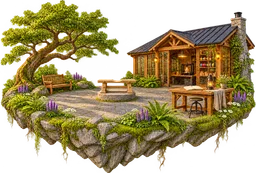
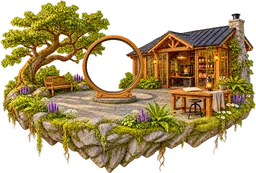
Heute-Insel mit gemaltem Holzring: App legt nur Sonnenweg, Skala, Sonne/Mond und Uhr in den gemalten Ring
Neues Inselbild des Nutzers (Großer Holzring auf schwebender Insel), gezeichneter Ringkörper samt Tiefenschichten entfernt, Position am gemalten Ring vermessen, ASSET_VERSION 20261108a, Doku angepasst.

Claude-Session: https://claude.ai/code/session_01Bea5Y1uKo4kG3DT62iBBFM

diff --git a/src/ui/Tagesportal.tsx b/src/ui/Tagesportal.tsx
@@ -17,10 +17,10 @@ function arc(from: number, to: number, r: number) {
 const STAR_HOURS = [0.6, 1.8, 3.1, 4.4, 20.4, 21.7, 22.9];
 
 /**
- * The Tagesportal: a turned oak ring with a brass inlay, resting in the notch of the wooden stand painted on the Heute island. The inside stays
- * transparent (the real landscape shows through). Natural materials only: oak with real grain (turbulence filter), a soft sheen,
- * brass edge; inside the inlay the sun's path from sunrise (left) to sunset (right) glows like amber, the passed part bright,
- * the night side dark slate with small stars; a warm sun or a pale moon marks now. Centre: the clock, and (not in compact mode) the next change of light.
+ * The Tagesportal: the wooden ring is painted in the Heute island image (wood band, slate channel inside, on a stand). The app only lays the
+ * living part into it: the sun's path in the slate channel from sunrise (left) to sunset (right) glowing like amber, the passed part bright,
+ * the night side dark with small stars; a warm sun or a pale moon marks now; 24 notches and hour numbers engraved on the wood; the clock and
+ * (not in compact mode) the next change of light in the centre. Position and size follow the painted ring (global.css .portal).
  */
 export function Tagesportal({ compact = false, turn = 0, lean = 0 }: { compact?: boolean; turn?: number; lean?: number }) {
   const now = useNow(1000);
@@ -29,7 +29,7 @@ export function Tagesportal({ compact = false, turn = 0, lean = 0 }: { compact?:
   const sr = today ? hourOf(today.sunrise) : 7; const ss = today ? hourOf(today.sunset) : 17;
   const h = now.getHours() + now.getMinutes() / 60 + now.getSeconds() / 3600;
   const isDay = h >= sr && h <= ss;
-  const R = 81; const [bx, by] = pt(h, R);
+  const R = 87; const [bx, by] = pt(h, R);
   const tomorrow = weather?.data.daily?.[1];
   const at = (iso: string | undefined, fallbackHour: number) => fmtTime(iso ? new Date(iso) : new Date(new Date(now).setHours(fallbackHour, 0, 0, 0)));
   const line = h < sr ? [`Sonnenaufgang ${at(today?.sunrise, 7)}`, `noch ${fmtDuration(Math.round((sr - h) * 60))}`]
@@ -40,40 +40,8 @@ export function Tagesportal({ compact = false, turn = 0, lean = 0 }: { compact?:
     <div className={`portal${compact ? ' portal--compact' : ''}`} data-testid="portal" data-kind={isDay ? 'sonne' : 'mond'} data-day={isDay ? 'true' : 'false'}>
       <div className="portal__pool" />
       <div className="portal__tilt" style={{ transform: `rotate(${lean}deg) rotateY(${turn}deg)` }}>
-        {/* the body of the ring: slices stacked behind the front face give it real thickness once the ring is turned in perspective */}
-        {Array.from({ length: 7 }, (_, i) => (
-          <svg key={i} className="portal__depth" viewBox="0 0 200 200" width="100%" height="100%" aria-hidden style={{ transform: `translateZ(${-(i + 1) * 1.4}px)` }}>
-            <circle cx="100" cy="100" r="93" fill="none" stroke={i < 6 ? `rgba(${70 - i * 6},${40 - i * 4},${14 - i},1)` : 'rgba(30,16,4,1)'} strokeWidth="11" />
-            <circle cx="100" cy="100" r="98.3" fill="none" stroke="rgba(0,0,0,.35)" strokeWidth=".8" />
-          </svg>
-        ))}
         <svg viewBox="0 0 200 200" width="100%" height="100%" role="img" aria-label={`Tagesportal, jetzt ${fmtTime(now)}`} style={{ overflow: 'visible', position: 'relative' }}>
           <defs>
-            <linearGradient id="portalOak" x1="0" y1="0" x2="1" y2="1"><stop offset="0" stopColor="#e2a054" /><stop offset=".3" stopColor="#c47d31" /><stop offset=".6" stopColor="#8f5219" /><stop offset=".82" stopColor="#b9742c" /><stop offset="1" stopColor="#dd9a4d" /></linearGradient>
-            <linearGradient id="portalOakHi" x1="0" y1="0" x2="1" y2="1"><stop offset="0" stopColor="rgba(255,226,170,.8)" /><stop offset=".35" stopColor="rgba(255,226,170,.16)" /><stop offset="1" stopColor="rgba(255,255,255,0)" /></linearGradient>
-            <linearGradient id="portalFar" x1="0" y1="0" x2="1" y2="0"><stop offset="0" stopColor="rgba(255,240,215,.1)" /><stop offset=".45" stopColor="rgba(0,0,0,0)" /><stop offset="1" stopColor="rgba(0,0,0,.38)" /></linearGradient>
-            <linearGradient id="portalBrass" x1="0" y1="0" x2="1" y2="1"><stop offset="0" stopColor="#f3dca0" /><stop offset=".4" stopColor="#b98a3e" /><stop offset=".7" stopColor="#7d561c" /><stop offset="1" stopColor="#dcb86a" /></linearGradient>
-            {/* wood grain: coarse long fibres, fine short fibres and darker growth lines, each clipped to the ring */}
-            <filter id="portalGrain" x="-10%" y="-10%" width="120%" height="120%">
-              <feTurbulence type="fractalNoise" baseFrequency="0.01 0.22" numOctaves="4" seed="7" result="n" />
-              <feColorMatrix in="n" type="matrix" values="0 0 0 0 0.36  0 0 0 0 0.17  0 0 0 0 0.05  0 0 0 1.6 -0.35" result="g" />
-              <feComposite in="g" in2="SourceAlpha" operator="in" />
-            </filter>
-            <filter id="portalGrainMid" x="-10%" y="-10%" width="120%" height="120%">
-              <feTurbulence type="fractalNoise" baseFrequency="0.02 0.5" numOctaves="3" seed="19" result="n" />
-              <feColorMatrix in="n" type="matrix" values="0 0 0 0 0.6  0 0 0 0 0.32  0 0 0 0 0.1  0 0 0 1.8 -0.55" result="g" />
-              <feComposite in="g" in2="SourceAlpha" operator="in" />
-            </filter>
-            <filter id="portalGrainFine" x="-10%" y="-10%" width="120%" height="120%">
-              <feTurbulence type="fractalNoise" baseFrequency="0.035 0.9" numOctaves="2" seed="3" result="n" />
-              <feColorMatrix in="n" type="matrix" values="0 0 0 0 1.0  0 0 0 0 0.8  0 0 0 0 0.45  0 0 0 1.4 -0.45" result="g" />
-              <feComposite in="g" in2="SourceAlpha" operator="in" />
-            </filter>
-            <filter id="portalGrainDark" x="-10%" y="-10%" width="120%" height="120%">
-              <feTurbulence type="turbulence" baseFrequency="0.006 0.5" numOctaves="2" seed="11" result="n" />
-              <feColorMatrix in="n" type="matrix" values="0 0 0 0 0.3  0 0 0 0 0.12  0 0 0 0 0.03  0 0 0 2.2 -0.9" result="g" />
-              <feComposite in="g" in2="SourceAlpha" operator="in" />
-            </filter>
             <linearGradient id="portalDay" gradientUnits="userSpaceOnUse" x1={f(pt(sr, R)[0])} y1={f(pt(sr, R)[1])} x2={f(pt(ss, R)[0])} y2={f(pt(ss, R)[1])}><stop offset="0" stopColor="#ff9c7a" /><stop offset=".3" stopColor="#ffe08a" /><stop offset=".55" stopColor="#fff6cc" /><stop offset=".8" stopColor="#ffc872" /><stop offset="1" stopColor="#ff8a4a" /></linearGradient>
             <linearGradient id="portalNight" x1="0" y1="0" x2="1" y2="1"><stop offset="0" stopColor="#1b2a6b" /><stop offset="1" stopColor="#3b5bc4" /></linearGradient>
             <radialGradient id="portalText" cx="50%" cy="50%" r="50%"><stop offset="0" stopColor="rgba(8,14,30,.55)" /><stop offset=".7" stopColor="rgba(8,14,30,.22)" /><stop offset="1" stopColor="rgba(8,14,30,0)" /></radialGradient>
@@ -82,44 +50,22 @@ export function Tagesportal({ compact = false, turn = 0, lean = 0 }: { compact?:
             <filter id="portalGlow" x="-40%" y="-40%" width="180%" height="180%"><feGaussianBlur stdDeviation="2" result="b" /><feMerge><feMergeNode in="b" /><feMergeNode in="SourceGraphic" /></feMerge></filter>
           </defs>
 
-          {/* a faint warm halo: the light of the inlay spilling out, not a neon glow */}
-          <circle cx="100" cy="100" r="92" fill="none" stroke={glow} strokeWidth="12" filter="url(#portalBloom)" opacity=".5" />
-          <circle cx="100" cy="100" r="93" fill="none" stroke="rgba(0,0,0,.38)" strokeWidth="12" filter="url(#portalSoft)" />
-
-          {/* the oak ring: turned wood with grain, a soft sheen on the upper left, bevel edges, brass on the inner lip */}
-          <circle cx="100" cy="100" r="93" fill="none" stroke="url(#portalOak)" strokeWidth="11" />
-          <circle cx="100" cy="100" r="93" fill="none" stroke="#000" strokeWidth="11" filter="url(#portalGrain)" opacity=".38" />
-          {/* growth rings of the turned wood: thin concentric lines, slightly uneven */}
-          {[90.2, 91.6, 93.1, 94.7, 96.1].map((r, i) => <circle key={r} cx="100" cy="100" r={r} fill="none" stroke="rgba(70,38,10,.22)" strokeWidth={i % 2 ? .35 : .5} strokeDasharray={i % 2 ? '14 6 22 4' : '30 5 12 8'} strokeDashoffset={i * 9} />)}
-          {/* rounded tube: dark outer edge, bright ridge just inside it, shadow trough towards the inner lip, far side a little darker */}
-          <circle cx="100" cy="100" r="97.9" fill="none" stroke="rgba(28,14,3,.6)" strokeWidth="1" />
-          <circle cx="100" cy="100" r="95.6" fill="none" stroke="rgba(255,236,200,.42)" strokeWidth="1.8" filter="url(#portalSoft)" />
-          <circle cx="100" cy="100" r="90.3" fill="none" stroke="rgba(22,10,2,.5)" strokeWidth="2.2" filter="url(#portalSoft)" />
-          <circle cx="100" cy="100" r="93" fill="none" stroke="url(#portalFar)" strokeWidth="11" />
-          <circle cx="100" cy="100" r="93" fill="none" stroke="url(#portalOakHi)" strokeWidth="9" opacity=".75" />
-          {/* lacquer: a soft specular band on the upper left like the varnished beams of the hut */}
-          <path d={arc(8.2, 12.4, 94.8)} fill="none" stroke="rgba(255,240,205,.55)" strokeWidth="2.6" strokeLinecap="round" filter="url(#portalSoft)" />
-          <circle cx="100" cy="100" r="98.2" fill="none" stroke="rgba(255,235,200,.55)" strokeWidth=".9" />
-          <circle cx="100" cy="100" r="98.8" fill="none" stroke="rgba(40,22,6,.5)" strokeWidth=".6" />
-          <circle cx="100" cy="100" r="87.2" fill="none" stroke="url(#portalBrass)" strokeWidth="2.2" />
-          <circle cx="100" cy="100" r="88.4" fill="none" stroke="rgba(255,245,215,.6)" strokeWidth=".5" />
-          <circle cx="100" cy="100" r="86" fill="none" stroke="rgba(40,22,6,.6)" strokeWidth=".6" />
-
-          {/* hour scale: 24 notches in the brass lip (longer every 6 h), hour numbers every 3 h engraved into the wood */}
-          {Array.from({ length: 24 }, (_, i) => { const major = i % 6 === 0; const mid = i % 3 === 0; const [x1, y1] = pt(i, 88.4); const [x2, y2] = pt(i, 88.4 - (major ? 3.6 : mid ? 2.6 : 1.6)); return <g key={i}><line x1={f(x1 + .35)} y1={f(y1 + .35)} x2={f(x2 + .35)} y2={f(y2 + .35)} stroke="rgba(255,245,215,.55)" strokeWidth={major ? 1 : .6} /><line x1={f(x1)} y1={f(y1)} x2={f(x2)} y2={f(y2)} stroke="rgba(45,25,6,.9)" strokeWidth={major ? 1 : .6} /></g>; })}
-          {[0, 3, 6, 9, 12, 15, 18, 21].map((t) => { const [x, y] = pt(t, 93.2); const major = t % 6 === 0; return <g key={t} fontFamily="Georgia, 'Times New Roman', serif" fontSize={major ? 10.6 : 8.6} fontWeight="700" textAnchor="middle"><text x={f(x)} y={f(y + 3.7)} fill="#2a1605" stroke="rgba(255,243,215,.85)" strokeWidth="1.1" strokeLinejoin="round" style={{ paintOrder: 'stroke' }}>{t}</text></g>; })}
-
-          {/* inside stays transparent; only a soft dark centre keeps the clock readable */}
+          {/* the ring itself is painted in the island image (wood band with a slate channel inside); the app only lays light and scale into it */}
+          <circle cx="100" cy="100" r={R} fill="none" stroke={glow} strokeWidth="9" filter="url(#portalBloom)" opacity=".35" />
           <circle cx="100" cy="100" r="46" fill="url(#portalText)" />
 
-          {/* the sun's path in the inlay: a dark slate channel, the daylight glowing like amber, the passed part bright; stars on the night side */}
-          <circle cx="100" cy="100" r={R} fill="none" stroke="rgba(14,18,30,.55)" strokeWidth="6" />
-          <circle cx="100" cy="100" r={R} fill="none" stroke="#2b3447" strokeWidth="3.8" opacity=".85" />
-          {STAR_HOURS.filter((s) => s < sr || s > ss).map((s) => { const [x, y] = pt(s, R); return <circle key={s} className="portal__star" cx={f(x)} cy={f(y)} r=".75" fill="#e8eefb" />; })}
-          <path d={arc(sr, ss, R)} fill="none" stroke="url(#portalDay)" strokeWidth="3.8" strokeLinecap="round" opacity=".4" />
-          {h > sr ? <path d={arc(sr, Math.min(h, ss), R)} fill="none" stroke="#ffd48a" strokeWidth="8" strokeLinecap="round" opacity=".4" filter="url(#portalBloom)" /> : null}
-          {h > sr ? <path d={arc(sr, Math.min(h, ss), R)} fill="none" stroke="url(#portalDay)" strokeWidth="3.8" strokeLinecap="round" filter="url(#portalGlow)" /> : null}
-          {[sr, ss].map((t, i) => { const [x1, y1] = pt(t, R - 4.5); const [x2, y2] = pt(t, R + 4.5); return <line key={i} x1={f(x1)} y1={f(y1)} x2={f(x2)} y2={f(y2)} stroke="rgba(255,240,205,.9)" strokeWidth="1.2" />; })}
+          {/* hour scale on the painted wood band: 24 notches (longer every 6 h), numbers every 3 h engraved into the wood */}
+          {Array.from({ length: 24 }, (_, i) => { const major = i % 6 === 0; const mid = i % 3 === 0; const [x1, y1] = pt(i, 91.6); const [x2, y2] = pt(i, 91.6 + (major ? 3.8 : mid ? 2.8 : 1.7)); return <g key={i}><line x1={f(x1 + .3)} y1={f(y1 + .3)} x2={f(x2 + .3)} y2={f(y2 + .3)} stroke="rgba(255,245,215,.55)" strokeWidth={major ? .9 : .55} /><line x1={f(x1)} y1={f(y1)} x2={f(x2)} y2={f(y2)} stroke="rgba(45,25,6,.9)" strokeWidth={major ? .9 : .55} /></g>; })}
+          {[0, 3, 6, 9, 12, 15, 18, 21].map((t) => { const [x, y] = pt(t, 96.2); const major = t % 6 === 0; return <g key={t} fontFamily="Georgia, 'Times New Roman', serif" fontSize={major ? 7.4 : 6.2} fontWeight="700" textAnchor="middle"><text x={f(x)} y={f(y + 2.6)} fill="#2a1605" stroke="rgba(255,243,215,.85)" strokeWidth=".9" strokeLinejoin="round" style={{ paintOrder: 'stroke' }}>{t}</text></g>; })}
+
+          {/* the sun's path in the painted slate channel: night side dark with stars, daylight glowing like amber, the passed part bright */}
+          <circle cx="100" cy="100" r={R} fill="none" stroke="rgba(10,14,28,.4)" strokeWidth="5" />
+          <circle cx="100" cy="100" r={R} fill="none" stroke="#2b3447" strokeWidth="3.4" opacity=".8" />
+          {STAR_HOURS.filter((s) => s < sr || s > ss).map((s) => { const [x, y] = pt(s, R); return <circle key={s} className="portal__star" cx={f(x)} cy={f(y)} r=".7" fill="#e8eefb" />; })}
+          <path d={arc(sr, ss, R)} fill="none" stroke="url(#portalDay)" strokeWidth="3.4" strokeLinecap="round" opacity=".4" />
+          {h > sr ? <path d={arc(sr, Math.min(h, ss), R)} fill="none" stroke="#ffd48a" strokeWidth="7" strokeLinecap="round" opacity=".4" filter="url(#portalBloom)" /> : null}
+          {h > sr ? <path d={arc(sr, Math.min(h, ss), R)} fill="none" stroke="url(#portalDay)" strokeWidth="3.4" strokeLinecap="round" filter="url(#portalGlow)" /> : null}
+          {[sr, ss].map((t, i) => { const [x1, y1] = pt(t, R - 4); const [x2, y2] = pt(t, R + 4); return <line key={i} x1={f(x1)} y1={f(y1)} x2={f(x2)} y2={f(y2)} stroke="rgba(255,240,205,.9)" strokeWidth="1.1" />; })}
 
           {/* now: a radiant sun by day, a glowing moon by night */}
           <g className="portal__now" data-kind={isDay ? 'sonne' : 'mond'}>
@@ -142,7 +88,6 @@ export function Tagesportal({ compact = false, turn = 0, lean = 0 }: { compact?:
           </g>
         </svg>
       </div>
-      <div className="portal__foot" />
       <div className="portal__centre"><b>{fmtTime(now)}</b>{compact ? null : <><span>{line[0]}</span><span className="portal__sub">{line[1]}</span></>}</div>
     </div>
   );

diff --git a/src/ui/About.tsx b/src/ui/About.tsx
@@ -72,7 +72,7 @@ export function EinstellungenSheet() {
   );
 }
 
-const OK = ['Alle 17 Inselbilder vom Nutzer erzeugt (Welten, Projektwelten, Rahmen für eigene Fotos), einheitlicher heller Stil', 'Acht Projektwelten (Garten, Küche & Haushalt, Fahrzeug, Büro, Hobby, Technik, Deko, Modellbau) als Inselbilder vom Nutzer, werden im Projektformular nach Bereich und Art vorgeschlagen', 'Jahreszeiten: automatisch nach Datum (oder fest in den Einstellungen) färben die Inseln, legen eine Stimmung über die Landschaft, lassen Blütenblätter, Pollen und Glühwürmchen, Laub oder Schneestaub treiben; Startwelt zeigt Jahreszeit und Tage bis zur nächsten, Wetterwelt gibt Werkstatt-Tipps je Jahreszeit', 'Tagesportal auf der Heute-Insel: ein gezeichneter Eichenring mit Messing-Einlage im gemalten Holzgestell, innen durchsichtig, und zeigt am Rand den Sonnenweg von Aufgang bis Untergang, in der Mitte die Uhr und den nächsten Lichtwechsel', 'Mobiler Begleiter: unter 900 px Breite eine eigene einfache Oberfläche mit Reitern Start, Heute, Projekte, Material, Mehr (gleiche Daten, gleiche Formulare); Tablet quer und Desktop zeigen die räumliche Werkstatt', 'Startwelt (Variante B): Uhr, Datum, Begrüßung, Wetter, Spruch, Landschaft nach Tageszeit, Inseln als Orientierung, Scrollen = Erkunden', 'Räumliche Navigation: Welten als große Inseln, aktive Welt vorn, Parallaxe, Wolken unter den Inseln, Tag/Dämmerung/Nacht nach echtem Sonnenstand', 'Echtes Wetter von Open-Meteo: aktuell, 24 h mit Temperaturkurve, 7 Tage, Tageslicht, Luftdruck, UV, Wetter-Hinweise (Regelbasiert), beste 8 Stunden nach PV-Regel des Plans', 'Projekt-Flow in fünf Schritten: Idee, Projektart (11 Arten + eigene), Einsatzbereiche (12 + eigene), Projektwelt (3 Vorschläge, eigenes Bild mit Rahmen), Details; Meilenstein-Vorlagen je Projektart; Lichtmoment im Karussell', 'Projekte-Welt: Karussell, Status an der Insel (Bereit/Blockiert/Geplant), Fortschritt, Chips, Aktuelles im Projekt, Ähnliche Projekte, Filter mit Zählern', 'Innenwelt rund um die Insel: Meilensteine, Versionen (Vergleich), Material, Drucke, Dateien, Aufgaben (mit Checklisten-Vorlagen), Werkzeuge, Bilder/3D/Notizen, Historie; Vollansichten als Seitenpanel', 'Drucke planen, Warteschlange mit Bereit/Blockiert und Wartegrund, Ergebnis Erfolg/Nacharbeit/Fehldruck (Nacharbeit → Aufgabe), Eingang mit Projektvorschlägen (hoch/mittel/niedrig), neues Projekt aus Druck, Ignorieren', 'AMS-Slots mit Füllstand, Statistiken 30 Tage, Energie-Messwerte (Messung ≠ Schätzung), Kalibrierungs-Vorlagen am Gerät', 'Material: Rollen einzeln (vorhanden/reserviert/verfügbar, Verbrauch genau einmal gebucht), Trocknung planen mit Geräteprofilen, Herstellerfarben, Produktkatalog (16) und Materialvergleich, Top-Materialien, Einkaufsliste', 'Archiv: Galerie, Zeitreise, beliebte Tags, Wiederentdecken, Filter (Art, Bereich, Material, Drucker, Jahr), Vorlagen (manuell oder beim Abschluss), Erfahrungen', 'Hinweise-Glocke mit Konflikten (Wartung, Fehlmengen, Fehldruck ohne Folge, leere Rollen, Eingang, fehlendes Werkzeug, Final-Version → Abschluss), Halo an blockierten Inseln', 'Papierkorb mit Wiederherstellen, Export/Import als JSON, Demodaten zurücksetzen, Speicheranzeige, Einstellungen (Name, Thema, Bewegung, Parallaxe, Hinweise, Standarddrucker, Materialien, PV, Strompreis)', 'Suche mit Strg+K über Projekte, Versionen, Aufgaben, Drucke, Rollen, Geräte, Historie; zuletzt genutzt gewichtet'];
+const OK = ['Alle 17 Inselbilder vom Nutzer erzeugt (Welten, Projektwelten, Rahmen für eigene Fotos), einheitlicher heller Stil', 'Acht Projektwelten (Garten, Küche & Haushalt, Fahrzeug, Büro, Hobby, Technik, Deko, Modellbau) als Inselbilder vom Nutzer, werden im Projektformular nach Bereich und Art vorgeschlagen', 'Jahreszeiten: automatisch nach Datum (oder fest in den Einstellungen) färben die Inseln, legen eine Stimmung über die Landschaft, lassen Blütenblätter, Pollen und Glühwürmchen, Laub oder Schneestaub treiben; Startwelt zeigt Jahreszeit und Tage bis zur nächsten, Wetterwelt gibt Werkstatt-Tipps je Jahreszeit', 'Tagesportal auf der Heute-Insel: der gemalte Holzring der Insel, innen durchsichtig, und zeigt am Rand den Sonnenweg von Aufgang bis Untergang, in der Mitte die Uhr und den nächsten Lichtwechsel', 'Mobiler Begleiter: unter 900 px Breite eine eigene einfache Oberfläche mit Reitern Start, Heute, Projekte, Material, Mehr (gleiche Daten, gleiche Formulare); Tablet quer und Desktop zeigen die räumliche Werkstatt', 'Startwelt (Variante B): Uhr, Datum, Begrüßung, Wetter, Spruch, Landschaft nach Tageszeit, Inseln als Orientierung, Scrollen = Erkunden', 'Räumliche Navigation: Welten als große Inseln, aktive Welt vorn, Parallaxe, Wolken unter den Inseln, Tag/Dämmerung/Nacht nach echtem Sonnenstand', 'Echtes Wetter von Open-Meteo: aktuell, 24 h mit Temperaturkurve, 7 Tage, Tageslicht, Luftdruck, UV, Wetter-Hinweise (Regelbasiert), beste 8 Stunden nach PV-Regel des Plans', 'Projekt-Flow in fünf Schritten: Idee, Projektart (11 Arten + eigene), Einsatzbereiche (12 + eigene), Projektwelt (3 Vorschläge, eigenes Bild mit Rahmen), Details; Meilenstein-Vorlagen je Projektart; Lichtmoment im Karussell', 'Projekte-Welt: Karussell, Status an der Insel (Bereit/Blockiert/Geplant), Fortschritt, Chips, Aktuelles im Projekt, Ähnliche Projekte, Filter mit Zählern', 'Innenwelt rund um die Insel: Meilensteine, Versionen (Vergleich), Material, Drucke, Dateien, Aufgaben (mit Checklisten-Vorlagen), Werkzeuge, Bilder/3D/Notizen, Historie; Vollansichten als Seitenpanel', 'Drucke planen, Warteschlange mit Bereit/Blockiert und Wartegrund, Ergebnis Erfolg/Nacharbeit/Fehldruck (Nacharbeit → Aufgabe), Eingang mit Projektvorschlägen (hoch/mittel/niedrig), neues Projekt aus Druck, Ignorieren', 'AMS-Slots mit Füllstand, Statistiken 30 Tage, Energie-Messwerte (Messung ≠ Schätzung), Kalibrierungs-Vorlagen am Gerät', 'Material: Rollen einzeln (vorhanden/reserviert/verfügbar, Verbrauch genau einmal gebucht), Trocknung planen mit Geräteprofilen, Herstellerfarben, Produktkatalog (16) und Materialvergleich, Top-Materialien, Einkaufsliste', 'Archiv: Galerie, Zeitreise, beliebte Tags, Wiederentdecken, Filter (Art, Bereich, Material, Drucker, Jahr), Vorlagen (manuell oder beim Abschluss), Erfahrungen', 'Hinweise-Glocke mit Konflikten (Wartung, Fehlmengen, Fehldruck ohne Folge, leere Rollen, Eingang, fehlendes Werkzeug, Final-Version → Abschluss), Halo an blockierten Inseln', 'Papierkorb mit Wiederherstellen, Export/Import als JSON, Demodaten zurücksetzen, Speicheranzeige, Einstellungen (Name, Thema, Bewegung, Parallaxe, Hinweise, Standarddrucker, Materialien, PV, Strompreis)', 'Suche mit Strg+K über Projekte, Versionen, Aufgaben, Drucke, Rollen, Geräte, Historie; zuletzt genutzt gewichtet'];
 const DEMO = ['Druckerstatus und Fortschritt (zeitbasiert simuliert, keine Geräteanbindung)', 'Solarstrom und Stromschätzung (Formel kWp × Einstrahlung / 1000 × 0,82), Wetter-Hinweise sind Regeln, keine amtlichen Warnungen', 'Kalendertermine (Beispiele), Dateien und 3D-Modelle (Platzhalter; eigene Fotos werden gespeichert)', 'Projektvorschläge im Eingang (einfacher Namensabgleich)', 'Landschaft wechselt nach echtem Sonnenstand (Morgendämmerung, Sonnenaufgang, Morgen, Mittag, Nachmittag, goldene Stunde, Sonnenuntergang, blaue Stunde, Mondnacht) und bei Nebel, Regen oder bedecktem Himmel nach dem echten Wetter'];
 const LATER = ['Anmeldung, persönliche Freigabe, Rollen (Eigentümer/Bearbeiter/Leser), Synchronisation, Offline-Abgleich', 'Entwicklungszweige (V3A/V3B), Merge mit Änderungsbericht, räumliche Zeitreise, Wiederherstellen alter Zustände', 'Lebendige Vorlagen und ähnliche Projekte mit selektiver Übernahme und Konfliktansicht', 'STL/3MF-Betrachter und automatische Renders, Slicer-Import, Druckeranbindung, Kameras, Sensoren, reale PV-Daten, dynamische Stromtarife', 'Natürliche Sprache in der Suche, Werkstattkalender (Woche/Monat), externe Kalender, Push, installierbare App', 'Gerätevorlagen (X2D, A1, AMS 2 Pro, AMS HT), Düsenverwaltung, Diagnose mit Symptomen, freie Ortswahl, Etiketten/QR-Erkennung, Demomodus'];
 

diff --git a/src/styles/global.css b/src/styles/global.css
@@ -396,13 +396,11 @@ p { margin: 0; }
 /* ---------- Heute info ring: floating glass ring over the island platform ---------- */
 /* standing ring: laid into the painted gold ring of the Heute island (measured: centre 43.5 % / 30.7 %, height 37.4 % of the island) */
 
-/* ---- Tagesportal: oak ring resting in the notch of the painted wooden stand on the Heute island (notch measured at 45 % / 46.5 % of the sprite) ---- */
-.portal { position: absolute; left: 33%; top: 12.3%; width: 24%; aspect-ratio: 1; pointer-events: none; animation: fade var(--t-mid) var(--ease) both; container-type: inline-size; perspective: 520px; perspective-origin: 50% 40%; }
-.portal__tilt { position: absolute; inset: 0; transform-origin: 50% 50%; transform-style: preserve-3d; filter: drop-shadow(0 6px 10px rgba(0,0,0,.35)); }
-.portal__depth { position: absolute; inset: 0; overflow: visible; }
-.portal__foot { position: absolute; left: 30%; right: 30%; top: 96.5%; height: 6%; border-radius: 50%; background: radial-gradient(50% 50% at 50% 50%, rgba(20,12,0,.5), transparent 70%); filter: blur(2px); }
+/* ---- Tagesportal: light and scale laid into the painted wooden ring of the Heute island (ring measured: centre 44.45 % / 37.8 %, outer width 24.7 % of the sprite) ---- */
+.portal { position: absolute; left: 32.4%; top: 18.9%; width: 25.5%; aspect-ratio: 1; pointer-events: none; animation: fade var(--t-mid) var(--ease) both; container-type: inline-size; }
+.portal__tilt { position: absolute; inset: 0; transform-origin: 50% 50%; }
 /* light of the ring spilling onto the pedestal and the terrace */
-.portal__pool { position: absolute; left: 8%; right: 8%; top: 82%; height: 38%; border-radius: 50%; background: radial-gradient(50% 50% at 50% 45%, rgba(255,196,110,.3), rgba(255,170,80,.1) 45%, transparent 72%); filter: blur(5px); animation: portal-breathe 6s ease-in-out infinite; }
+.portal__pool { position: absolute; left: 10%; right: 10%; top: 84%; height: 34%; border-radius: 50%; background: radial-gradient(50% 50% at 50% 45%, rgba(255,196,110,.3), rgba(255,170,80,.1) 45%, transparent 72%); filter: blur(5px); animation: portal-breathe 6s ease-in-out infinite; }
 .portal[data-day="false"] .portal__pool { background: radial-gradient(50% 50% at 50% 45%, rgba(170,195,255,.26), rgba(140,170,255,.08) 45%, transparent 72%); }
 .portal__centre { position: absolute; left: 50%; top: 50%; transform: translate(-50%, -54%); text-align: center; color: #fff; text-shadow: 0 2px 10px rgba(0,0,0,.75), 0 0 2px rgba(0,0,0,.6), 0 0 14px rgba(255,220,150,.25); white-space: nowrap; }
 .portal__centre b { display: block; font-size: clamp(12px, 17cqw, 40px); font-weight: 700; letter-spacing: -.02em; line-height: 1; }

diff --git a/src/scene/Island.tsx b/src/scene/Island.tsx
@@ -6,7 +6,7 @@ export const ISLAND_META: Record<LibraryIsland, { w: number; h: number; disc?: {
   werkstatt: { w: 1098, h: 1227 }, elektronik: { w: 1098, h: 1226 }, ideen: { w: 1094, h: 1224 },
   rahmen: { w: 1094, h: 1190 }, staffelei: { w: 1203, h: 1123 },
   // the six main islands (wide format, from the user's image package of 7 Nov 2026)
-  heute: { w: 1390, h: 942 }, projekte: { w: 1361, h: 841 }, druck: { w: 1483, h: 943 }, material: { w: 1506, h: 1003 }, wetter: { w: 1401, h: 939 }, archiv: { w: 1481, h: 881 },
+  heute: { w: 1297, h: 876 }, projekte: { w: 1361, h: 841 }, druck: { w: 1483, h: 943 }, material: { w: 1506, h: 1003 }, wetter: { w: 1401, h: 939 }, archiv: { w: 1481, h: 881 },
   drucker: { w: 1081, h: 1188 },
   'projekt-garten': { w: 1081, h: 1167 }, 'projekt-haushalt': { w: 1080, h: 1168 }, 'projekt-fahrzeug': { w: 1080, h: 1209 }, 'projekt-buero': { w: 1080, h: 1186 },
   'projekt-hobby': { w: 1079, h: 1204 }, 'projekt-technik': { w: 1086, h: 1208 }, 'projekt-deko': { w: 1081, h: 1196 }, 'projekt-modell': { w: 1080, h: 1195 },
@@ -20,7 +20,7 @@ export const FRAME_BOX: Partial<Record<LibraryIsland, CSSProperties>> = {
   staffelei: { left: '28%', right: '28%', top: '21.5%', bottom: '46.5%' },
 };
 /** Bump when island sprites change: the CDN and browsers cache /img/* for a year (immutable), so the URL must change. */
-export const ASSET_VERSION = '20261107d';
+export const ASSET_VERSION = '20261108a';
 export const islandSrc = (id: LibraryIsland, w: 1254 | 640 | 256) => `/img/insel-${id}-${w}.webp?v=${ASSET_VERSION}`;
 
 export interface IslandProps {

diff --git a/docs/Brainstorm-Info.md b/docs/Brainstorm-Info.md
@@ -98,7 +98,7 @@ Demodaten: fünf aktive Projekte (Sensorhalter Garten, Bewässerungsclip, Werkze
 
 **Landschaften (1672 × 941, Bergsee mit gleichbleibendem Bildaufbau):** je Jahreszeit vier Bilder (früher Morgen, Mittag, Sonnenuntergang, Nacht) für Frühling, Sommer, Herbst und Winter, dazu ein regennasser Bergsee für bedeckt, Nebel und Regen. Die zwölf Licht-Looks (Dämmerung bis Mondnacht) steuern weiter Sonnenstand, Himmelsfarbe und Wolken und werden auf die vier Tagesbilder der aktuellen Jahreszeit abgebildet (`src/scene/looks.ts`, `LOOK_PHASE`). Die früheren zwölf Tal-Landschaften liegen in `reference/alte-assets/`.
 
-**Hauptinseln (1536 × 1024, freigestellt geliefert):** Heute (Garten mit Bank, Hütte und Holzgestell auf dem Steinsockel; in dessen Mulde zeichnet die App das Tagesportal als Eichenring mit Messing-Einlage), Projekte (Werkstatthütte mit Baum), 3D-Druck (Druckwerkstatt mit AMS), Material (Spulenregal), Wetter (Kuppel, Wettermast, Wasserfall), Archiv (Bibliothek mit Vitrinen).
+**Hauptinseln (1536 × 1024, freigestellt geliefert):** Heute (Garten mit Bank, Hütte und gemaltem Holzring auf einem Gestell; die App legt Sonnenweg, Skala und Uhr in den gemalten Ring), Projekte (Werkstatthütte mit Baum), 3D-Druck (Druckwerkstatt mit AMS), Material (Spulenregal), Wetter (Kuppel, Wettermast, Wasserfall), Archiv (Bibliothek mit Vitrinen).
 
 **Bibliotheksinseln für Projekte (1254 × 1254):** Werkstatt, Elektronik, Ideen, Drucker, acht Projektwelten (Garten, Haushalt, Fahrzeug, Büro, Hobby, Technik, Deko, Modellbau) sowie 16 weitere Motive: Haus & Bauen, Sammlung, Druckhütte, Pergola-Garten, Holzwerkstatt, Computerstudio, Elektroniklabor, Spulenlager, Solarpavillon, Metallwerkstatt, Atelier, Observatorium, Planungsgarten, Garten mit Ring, Werkstatt-Pavillon; für eigene Fotos zwei Rahmen-Inseln (Holztafel, Staffelei).
 

diff --git a/README.md b/README.md
@@ -18,7 +18,7 @@ Die räumliche Inselwelt ist für Desktop und Tablet quer gebaut. Unter 900 px B
 
 ## Tagesportal auf der Heute-Insel
 
-Die Heute-Insel trägt auf dem Steinsockel ein gemaltes Holzgestell; `src/ui/Tagesportal.tsx` setzt in dessen Mulde einen stehenden Eichenring mit Messing-Einlage als Fenster auf den Tag: innen bleibt er durchsichtig (die echte Landschaft scheint durch); am Rand der Sonnenweg von Aufgang (links) bis Untergang (rechts) mit leuchtendem vergangenem Teil und einer Sonne oder einem Mond als Jetzt-Marke; in der Mitte die Uhr und der nächste Lichtwechsel. Position und Neigung stehen in `global.css` (`.portal`) und in den Props `turn` und `lean`. Auf der Startseite läuft es als `compact` nur mit Uhr.
+Die Heute-Insel trägt auf dem Steinsockel einen gemalten Holzring auf einem Gestell; `src/ui/Tagesportal.tsx` legt nur das Lebendige hinein, der Ring ist Teil des Bildes: innen bleibt er durchsichtig (die echte Landschaft scheint durch); am Rand der Sonnenweg von Aufgang (links) bis Untergang (rechts) mit leuchtendem vergangenem Teil und einer Sonne oder einem Mond als Jetzt-Marke; in der Mitte die Uhr und der nächste Lichtwechsel. Position und Neigung stehen in `global.css` (`.portal`) und in den Props `turn` und `lean`. Auf der Startseite läuft es als `compact` nur mit Uhr.
 
 ## Domains
 
